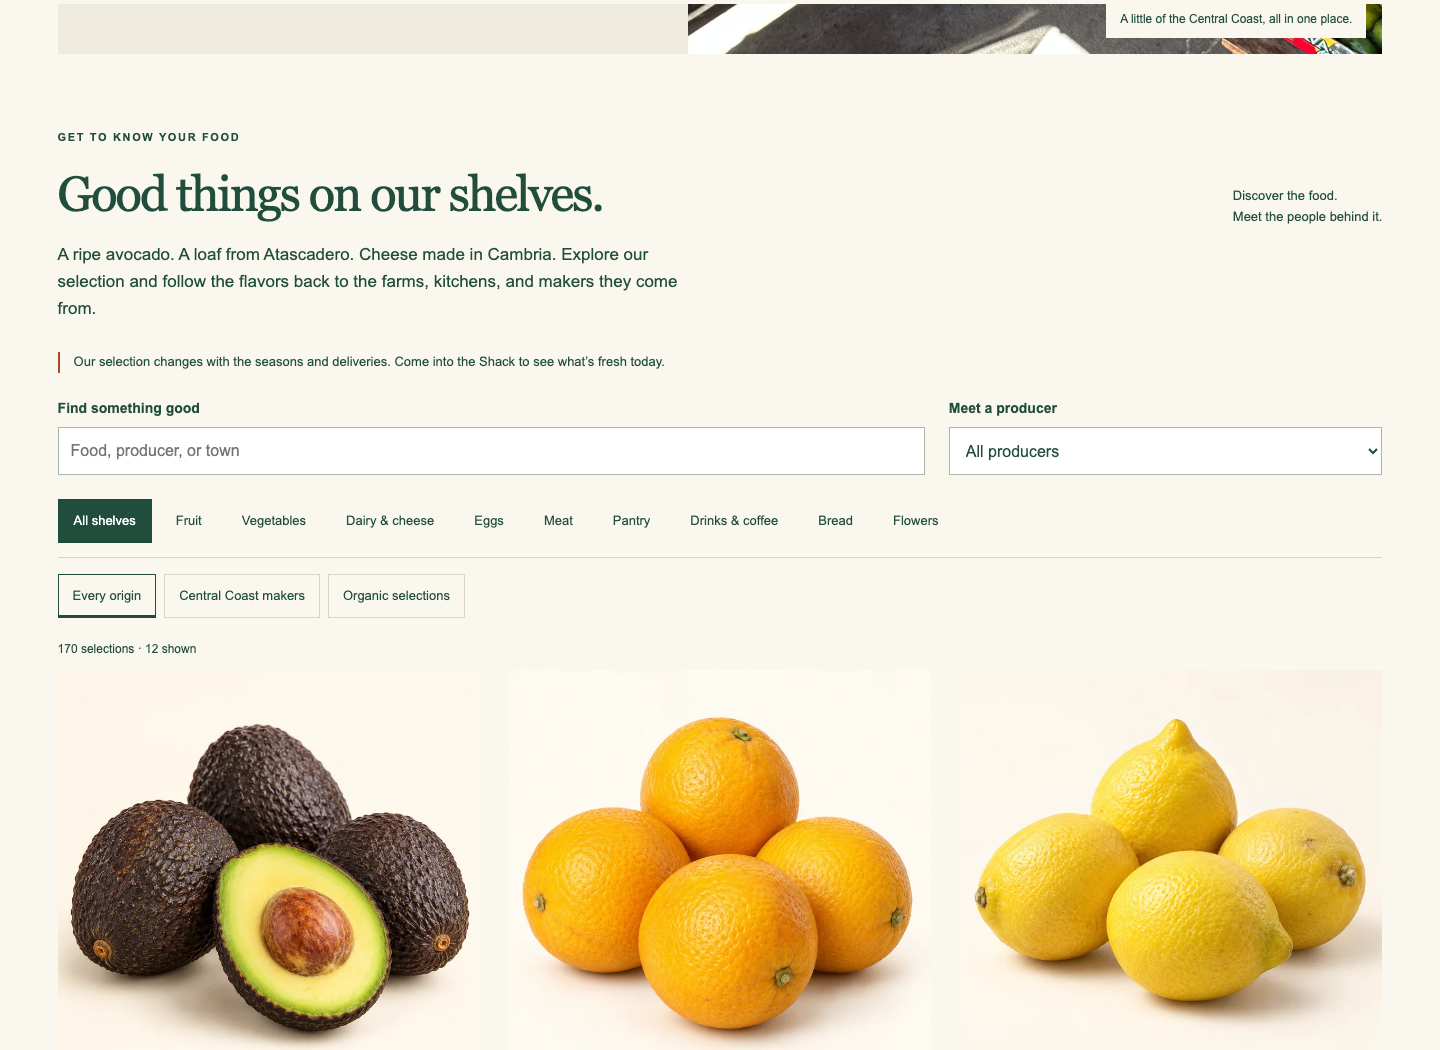
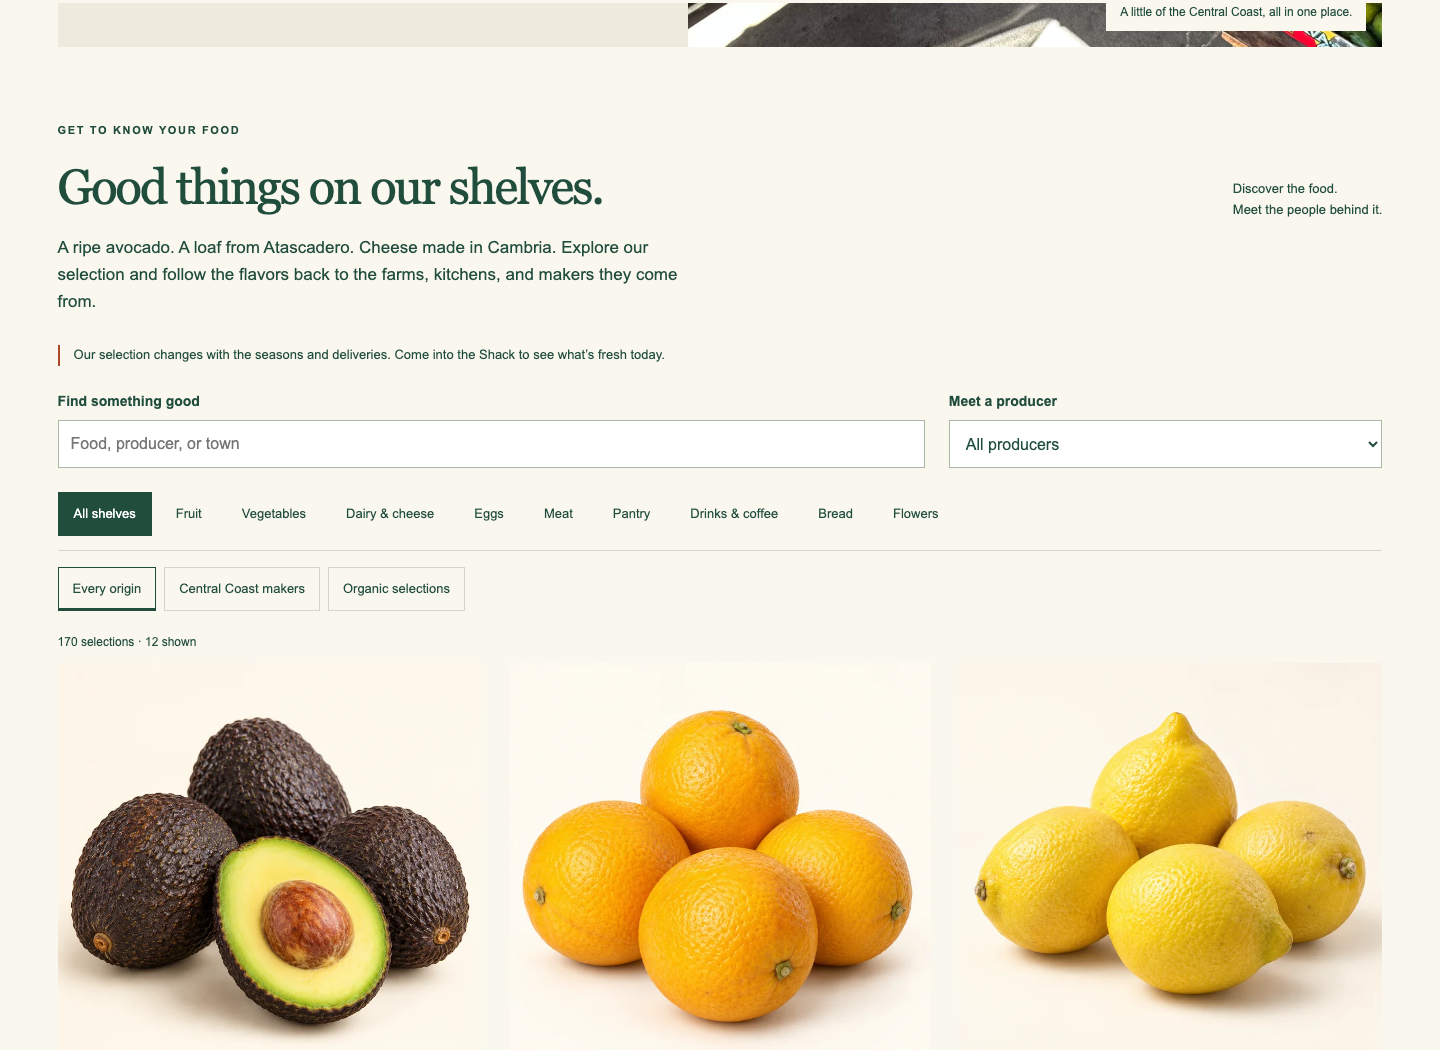
Document Hermes ownership, business context and private data operations

diff --git a/reports/hermes-handoff/backup-community.py b/reports/hermes-handoff/backup-community.py
@@ -1,0 +1,19 @@
+"""Create a consistent private community database backup; never sends data."""
+import argparse, datetime, os, sqlite3
+from pathlib import Path
+parser=argparse.ArgumentParser();parser.add_argument('--database',default=os.environ.get('AVOSHACK_COMMUNITY_DB'));parser.add_argument('--destination',required=True);args=parser.parse_args()
+if not args.database: parser.error('Set AVOSHACK_COMMUNITY_DB or --database')
+source=Path(args.database).resolve();target=Path(args.destination).resolve()
+if source==target:parser.error('Backup destination must differ from source')
+if target.exists():parser.error('Choose a new backup filename; existing backup will not be overwritten')
+target.parent.mkdir(mode=0o700,parents=True,exist_ok=True)
+try:
+ with sqlite3.connect(source.as_uri()+'?mode=ro',uri=True) as src:
+  with sqlite3.connect(str(target)) as dst:
+   src.backup(dst)
+   if dst.execute('PRAGMA integrity_check').fetchone()[0]!='ok':raise RuntimeError('Backup integrity check failed')
+ os.chmod(target,0o600)
+ print('Verified private database backup:',target)
+except Exception:
+ if target.exists():target.unlink()
+ raise

diff --git a/AGENTS.md b/AGENTS.md
@@ -1,0 +1,17 @@
+# Avocado Shack sandbox
+
+Read HERMES_HANDOFF.txt and README.txt first. Current source is storefront-mockup/.
+The commerce/ prototype and older proposals are historical. BUILD_LEDGER.md is
+chronological and its opening objective does not describe the current scope.
+
+- Keep the site private and bound to loopback. Use SSH forwarding for previews.
+- Preserve the catalog-only scope: no prices, basket, boxes, merch or checkout.
+- Preserve separate newsletter/hiking consent. Email delivery is unconnected.
+- Route ideas are undated; create real events only from confirmed owner details.
+- Use known producer locations and documented organic claims; never invent origins.
+- Do not restore held products without reviewing the recorded manufacturer concern.
+- Keep credentials, participant data, runtime and private backups out of Git.
+- Keep Mac backup and source-photo provenance. Commit source changes in small units.
+- Use isolated fixtures for testing forms; do not pollute the real community database.
+- Do not treat historical QA evidence as a fresh check. Record actual checks and limits.
+- Report results plainly and keep BUILD_LEDGER.md current at meaningful milestones.
